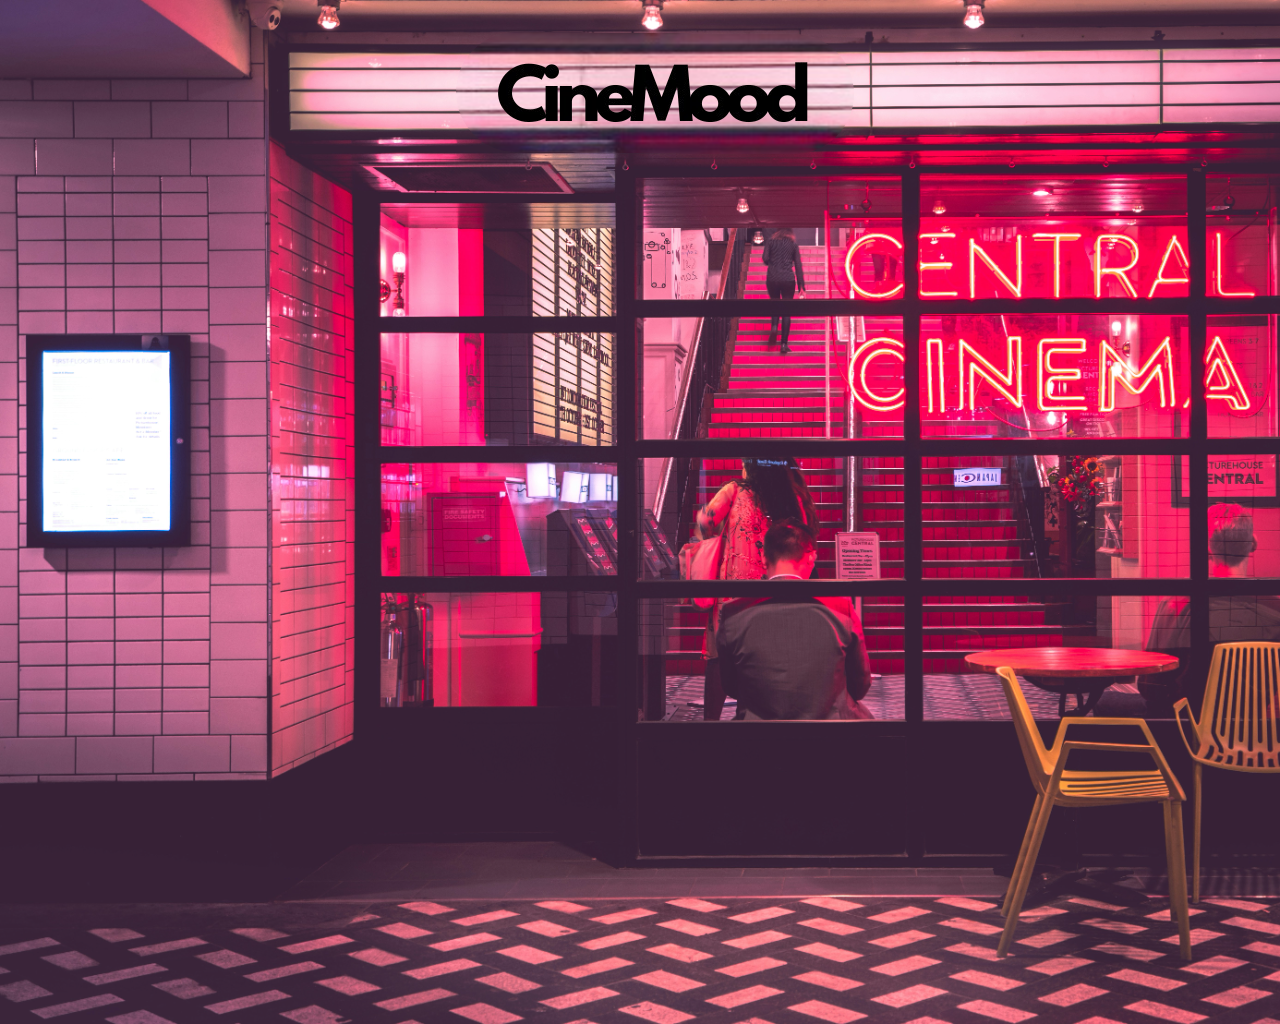
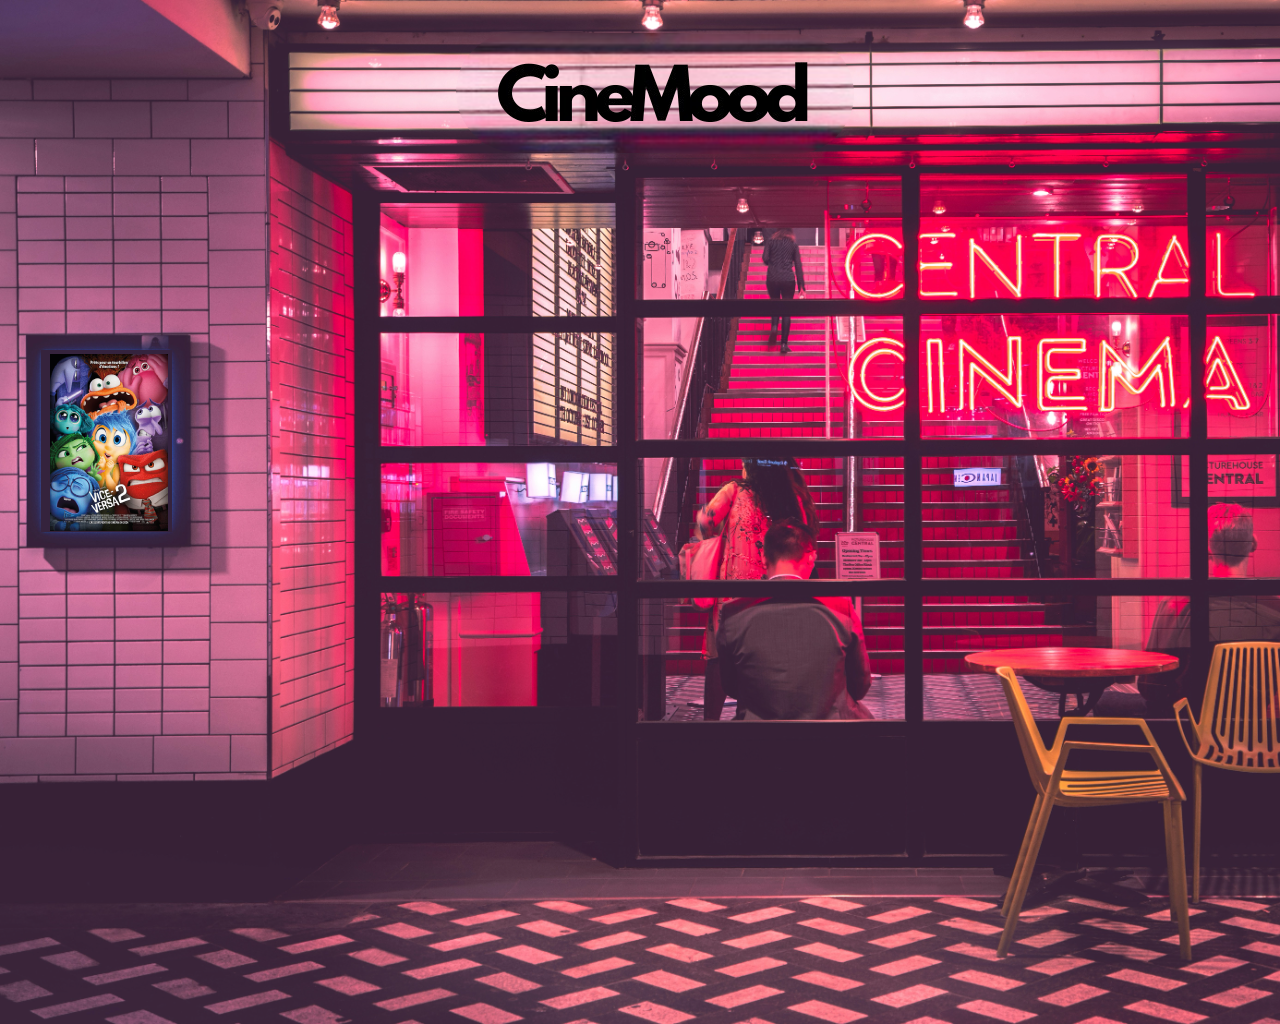
personal project - first commit

Changed region(s): [[0.0312, 0.3438, 0.1562, 0.5312]]

diff --git a/fiche_style.css b/fiche_style.css
@@ -58,14 +58,6 @@ body {
     width: 80%;
 }
 
-#button.left-wrapper {
-    border-top: 1px solid #ec8fb9;
-    border-bottom: 1px solid #ec8fb9;
-    border-left: 1px solid #ec8fb9;
-    border-right: 1px solid #ec8fb9;
-    text-decoration: none;
-}
-
 #image {
     width: 100%;
     max-width: 400px;
@@ -80,6 +72,8 @@ body {
 #image:hover {
     width: 100%;
     border: 1px solid #ec8fb9;
+    border-radius: 15px;
+
 }
 
 #content-wrapper {
@@ -202,7 +196,7 @@ h3 {
 
 #button {
     display: flex;
-    background-color: bisque;
+    background-color: transparent;
     border-radius: 0px 0px 15px 15px;
     color: white;
     font-size: 12px;
@@ -214,7 +208,6 @@ h3 {
     transition: all 0.2s ease;
     justify-content: center;
     font-family: Poppins, sans-serif;
-    background-color: black;
     width: 80%;
     text-align: center;
     filter: drop-shadow(10px 10px 4px black);
@@ -223,9 +216,9 @@ h3 {
 /* Passage de la souris sur le bouton */
 #button:hover {
     transform: translateY(-2px);
-    background-color: white;
-    color: #ec8fb9;
-    border: 1px solid white;
+    background-color: #ec8fb9;
+    color: white;
+    border: 1px solid #ec8fb9;
     text-decoration: none;
 }
 

diff --git a/random-names.js b/random-names.js
@@ -1,6 +1,7 @@
 // Random name sur la homepage
 
-const randomName = ['Beautiful', 'Master', 'Super Loutre', 'Sunshine', 'Nono', 'Cuty Pie', 'Super Castor', 'Butter Cup', 'Handsome', 'Muffin', 'Pumpkin', 'Kwazy Cupcake', 'Little Schtroumpf', 'Little One', 'to the Stongest', 'Petite Chose Mignonne', 'You']
+// const randomName = ['Beautiful', 'Super Loutre', 'Sunshine', 'Nono', 'Cuty Pie', 'Super Castor', 'Butter Cup', 'Handsome', 'Muffin', 'Pumpkin', 'Kwazy Cupcake', 'Little Schtroumpf', 'Little One', 'Master', 'Petite Chose Mignonne', 'You']
+const randomName = ['Super Loutre', 'Cuty Pie', 'Super Castor', 'Butter Cup', 'Muffin', 'Pumpkin', 'Kwazy Cupcake', 'Little Schtroumpf','Petite Chose Mignonne']
 
 function getRandomName() {
     return randomName[Math.floor(Math.random() * randomName.length)];
@@ -8,7 +9,7 @@ function getRandomName() {
 }
 
 function displayRandomName() {
-    document.getElementById('randomname').innerHTML = `Hello <span><em>${getRandomName()}</em></span> !`;
+    document.getElementById('randomname').innerHTML = `Bonjour <span><em>${getRandomName()}</em></span> !`;
 }
 
 displayRandomName()

diff --git a/index.html b/index.html
@@ -4,10 +4,9 @@
 <head>
     <meta charset="UTF-8">
     <meta name="viewport" content="width=device-width, initial-scale=1.0">
-    <title>Document</title>
+    <title>CineMood</title>
     <script src="random-names.js" defer></script>
     <link rel="stylesheet" href="style.css">
-    <title>Cinemood</title>
 </head>
 
 <body>

diff --git a/fiche.html b/fiche.html
@@ -6,7 +6,7 @@
     <meta name="viewport" content="width=device-width, initial-scale=1.0">
     <link rel="stylesheet" href="fiche_style.css">
     <link rel="stylesheet" href="menu-style.css">
-    <title>Cinemood</title>
+    <title>CineMood</title>
 </head>
 
 <body>
